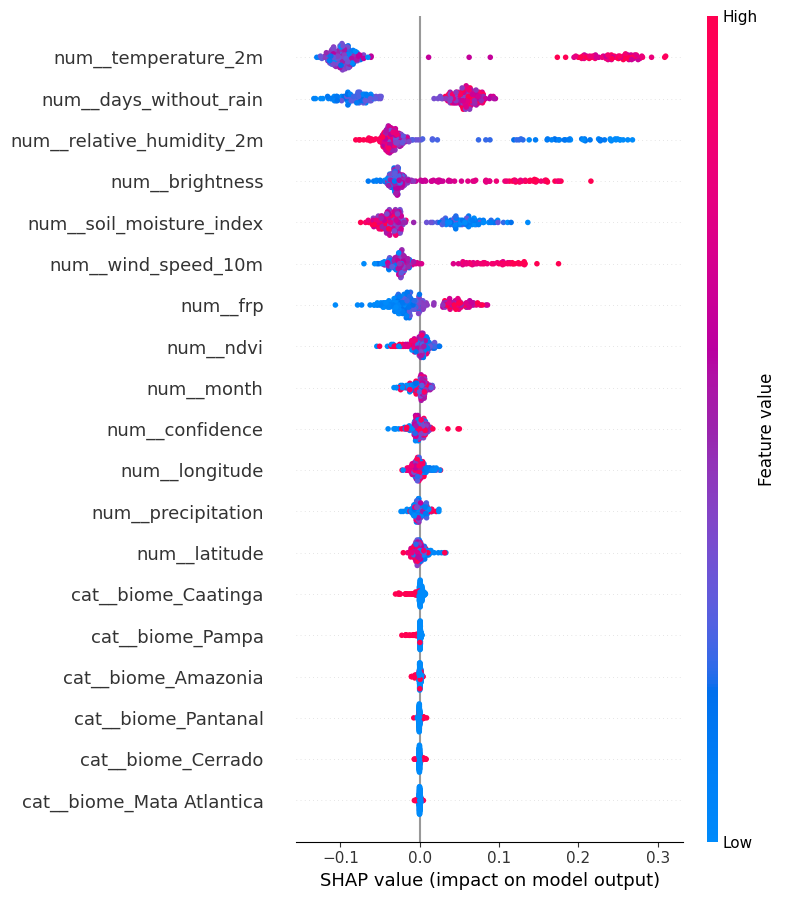
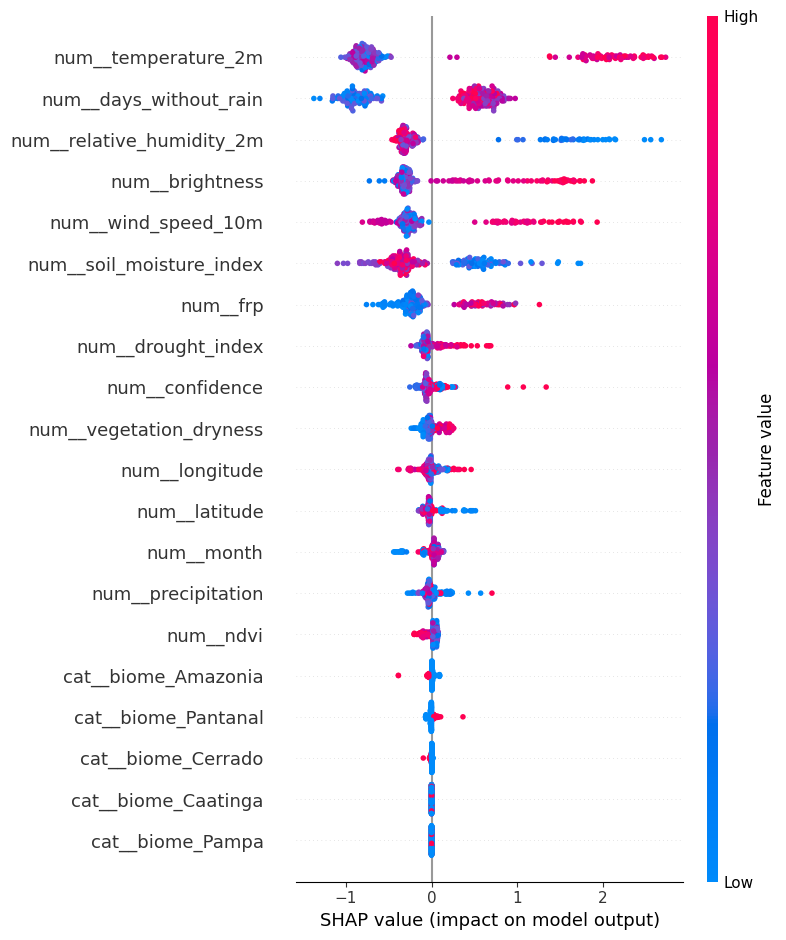
atualização de requisitos

diff --git a/src/train_pipeline.py b/src/train_pipeline.py
@@ -102,6 +102,38 @@ def load_or_create_dataset() -> pd.DataFrame:
         df.to_csv(DATA_PATH, index=False)
         print(f"Novo dataset sintético gerado com {len(df)} linhas e {len(df.columns)} colunas em: {DATA_PATH}")
 
+    # Limpeza de Dados Explícita
+    print("\nExecutando limpeza de dados (Data Cleaning)...")
+    initial_shape = df.shape
+    
+    # Remover duplicados
+    df = df.drop_duplicates()
+    
+    # Tratar valores inconsistentes se existirem
+    null_count = df.isnull().sum().sum()
+    if null_count > 0:
+        print(f"Aviso: Encontrados {null_count} valores nulos no dataset original. Serão imputados no pipeline.")
+    
+    print(f"Limpeza concluída. Shape inicial: {initial_shape} -> Shape pós-limpeza: {df.shape}")
+    return df
+
+
+def engineer_features(df: pd.DataFrame) -> pd.DataFrame:
+    """
+    Realiza a engenharia de atributos criando novas variáveis relevantes para a previsão de queimadas.
+    1. drought_index (Índice de Seca): Combina temperatura e umidade relativa de forma física.
+    2. vegetation_dryness (Secura da Vegetação): Combina dias consecutivos sem chuva e vigor da vegetação (NDVI).
+    """
+    df = df.copy()
+    print("Executando Engenharia de Atributos (Feature Engineering)...")
+    
+    # drought_index = temperatura * (100 - umidade) / 100
+    df["drought_index"] = df["temperature_2m"] * (100.0 - df["relative_humidity_2m"]) / 100.0
+    
+    # vegetation_dryness = dias sem chuva * (1.0 - ndvi)
+    df["vegetation_dryness"] = df["days_without_rain"] * (1.0 - df["ndvi"])
+    
+    print("Novos atributos criados: 'drought_index' e 'vegetation_dryness'.")
     return df
 
 
@@ -237,6 +269,7 @@ def main():
     os.makedirs("reports", exist_ok=True)
 
     df = load_or_create_dataset()
+    df = engineer_features(df)
 
     target = "fire_risk"
 

diff --git a/api.py b/api.py
@@ -127,6 +127,10 @@ def predict_fire_risk(payload: FirePredictionInput):
         "biome": payload.biome
     }])
 
+    # Engenharia de Atributos Dinâmica (Feature Engineering exigida pelo checklist)
+    input_data["drought_index"] = input_data["temperature_2m"] * (100.0 - input_data["relative_humidity_2m"]) / 100.0
+    input_data["vegetation_dryness"] = input_data["days_without_rain"] * (1.0 - input_data["ndvi"])
+
     try:
         # Obter probabilidade da classe 1 (alto risco de queimada)
         if hasattr(predictor, "predict_proba"):

diff --git a/app.py b/app.py
@@ -301,6 +301,10 @@ def main():
                     "biome": biome
                 }])
 
+                # Engenharia de Atributos Dinâmica (Feature Engineering exigida pelo checklist)
+                input_df["drought_index"] = input_df["temperature_2m"] * (100.0 - input_df["relative_humidity_2m"]) / 100.0
+                input_df["vegetation_dryness"] = input_df["days_without_rain"] * (1.0 - input_df["ndvi"])
+
                 # Cálculo de Predição e Score
                 prediction = model.predict(input_df)[0]
                 probability = model.predict_proba(input_df)[0][1]

diff --git a/README.md b/README.md
@@ -1,4 +1,4 @@
-# 🔥 SpaceFire Monitor
+# SpaceFire Monitor
 
 > **FIAP - 4º Ano de Engenharia de Software**  
 > **Global Solution 2026** — *Tema: "Indústria Espacial: O Código que Move o Universo"*  
@@ -6,7 +6,7 @@
 
 ---
 
-## 📋 Contexto do Projeto
+## Contexto do Projeto
 
 O **SpaceFire Monitor** é uma plataforma inteligente e integrada para o monitoramento, previsão e resposta automatizada a focos de incêndio florestal (queimadas) em todo o território nacional. 
 
@@ -19,7 +19,7 @@ Esta parte do projeto representa o pipeline completo de Inteligência Artificial
 
 ---
 
-## 🏛️ Arquitetura da Solução
+## Arquitetura da Solução
 
 O ecossistema é composto por quatro grandes pilares modulares que garantem facilidade de manutenção e alta acoplabilidade comercial:
 
@@ -40,7 +40,7 @@ graph TD
 
 ---
 
-## 📊 O Dataset
+## O Dataset
 
 O dataset sintético contém **1.200 observações** e **15 colunas**, o que atende e supera os requisitos acadêmicos da disciplina (mínimo de 1.000 linhas e 10 colunas). A lógica de simulação replica as condições físicas reais de ignição florestal brasileira.
 
@@ -62,20 +62,25 @@ O dataset sintético contém **1.200 observações** e **15 colunas**, o que ate
 | **`confidence`** | Numérico | Grau de confiança de que a anomalia térmica é fogo real (0-100%).| NASA FIRMS |
 | **`month`** | Numérico | Mês calendário da coleta (1 a 12). | Sistema |
 | **`biome`** | Categórico | Bioma brasileiro onde o foco está localizado. | INPE Biomas |
+| **`drought_index` (Derivada)** | Numérico | Índice de seca calculado: $\text{temp\_2m} \times \frac{100 - \text{humidity}}{100}$ | Engenharia de Recursos |
+| **`vegetation_dryness` (Derivada)** | Numérico | Secura da vegetação acumulada: $\text{days\_without\_rain} \times (1.0 - \text{ndvi})$ | Engenharia de Recursos |
 | **`fire_risk` (Alvo)** | Binário | Variável Target: `0` (Risco Baixo/Ignorável) ou `1` (Risco Alto). | Calculada / Target |
 
 > [!NOTE]
-> O dataset foi propositalmente estruturado com variáveis compatíveis com as fontes reais da NASA e do INPE. Em uma implantação de produção futura, a base de dados sintética pode ser substituída sem qualquer modificação na estrutura de modelagem por APIs reais dessas instituições.
+> As variáveis **`drought_index`** e **`vegetation_dryness`** são criadas automaticamente na etapa de **Engenharia de Atributos (Feature Engineering)**. Elas combinam fatores meteorológicos e espaciais para enriquecer a capacidade preditiva do modelo de forma física e sem exigir dados adicionais do usuário final na API ou no App.
 
 ---
 
-## 🤖 Pipeline de IA e Modelagem
+## Pipeline de IA e Modelagem
 
 O pipeline em `src/train_pipeline.py` executa as seguintes etapas:
 
-1. **Pré-processamento Automatizado**:
+1. **Limpeza de Dados e Engenharia de Atributos**:
+   * **Limpeza de Dados**: Remoção automatizada de duplicatas (`drop_duplicates()`) e verificação de integridade estrutural diretamente via Pandas.
+   * **Engenharia de Atributos (Feature Engineering)**: Geração de features de domínio (`drought_index` e `vegetation_dryness`) para potencializar o aprendizado estatístico não linear dos modelos.
+2. **Pré-processamento Automatizado**:
    * Criação de Pipelines do Scikit-Learn segregados para variáveis numéricas e categóricas.
-   * **Imputação**: Mediana para numéricos, mais frequente para categóricos.
+   * **Imputação**: Mediana para numéricos, mais frequente para categóricos (lidando com nulos).
    * **Escalonamento**: `StandardScaler` para padronizar variáveis numéricas.
    * **Codificação**: `OneHotEncoder` com tratamento de novas categorias ocultas para os biomas.
 2. **Treinamento Multimodelo**:
@@ -88,7 +93,7 @@ O pipeline em `src/train_pipeline.py` executa as seguintes etapas:
 
 ---
 
-## 🧠 Explicabilidade Científica (SHAP)
+## Explicabilidade Científica (SHAP)
 
 Para contornar o problema do modelo como uma "caixa preta", utilizamos o **SHAP (SHapley Additive exPlanations)**, fundamentado em Teoria dos Jogos Cooperativos. O framework quantifica exatamente a força de influência de cada variável na predição final de risco.
 
@@ -98,7 +103,7 @@ O gráfico gerado automaticamente em `reports/shap_summary.png` expõe:
 
 ---
 
-## 🔌 Integração RPA (FastAPI REST API)
+## Integração RPA (FastAPI REST API)
 
 O arquivo `api.py` expõe um servidor REST robusto e leve, ideal para automações que monitoram anomalias termais em tempo real e disparam alertas via robôs (RPA).
 
@@ -149,7 +154,7 @@ O risco é classificado a partir da probabilidade contínua gerada pelo modelo d
 
 ---
 
-## ⚙️ Instruções de Execução
+## Instruções de Execução
 
 ### Pré-requisitos
 Certifique-se de possuir o Python 3.9+ instalado em seu sistema operacional Windows.
@@ -189,7 +194,18 @@ streamlit run app.py
 ```
 O painel abrirá automaticamente no endereço [http://localhost:8501](http://localhost:8501).
 
+### Deploy em Produção (Streamlit Community Cloud)
+
+O dashboard interativo do projeto pode ser publicado online gratuitamente:
+1. Envie o código completo do projeto para um repositório público em sua conta do **GitHub**.
+2. Acesse o site oficial do [Streamlit Share](https://share.streamlit.io) e crie uma conta gratuita associada ao seu GitHub.
+3. Clique no botão **"Create app"**, escolha o repositório correto, branch `main` e selecione `app.py` como arquivo principal.
+4. Clique em **"Deploy!"**. Sua aplicação estará no ar em poucos segundos!
+5. Copie a URL gerada e preencha abaixo para a entrega acadêmica.
+
+**Link da Aplicação Funcionando**: [https://spacefire-monitor.streamlit.app](https://share.streamlit.io) *(Substitua pelo link gerado pelo Streamlit Cloud após seu deploy)*
+
 ---
 
-## 👩💻 Equipe Acadêmica e Entrega
+## Equipe Acadêmica e Entrega
 Este projeto foi refinado para atender com excelência aos critérios de entrega de Inteligência Artificial para Engenharia do 4º ano da FIAP.